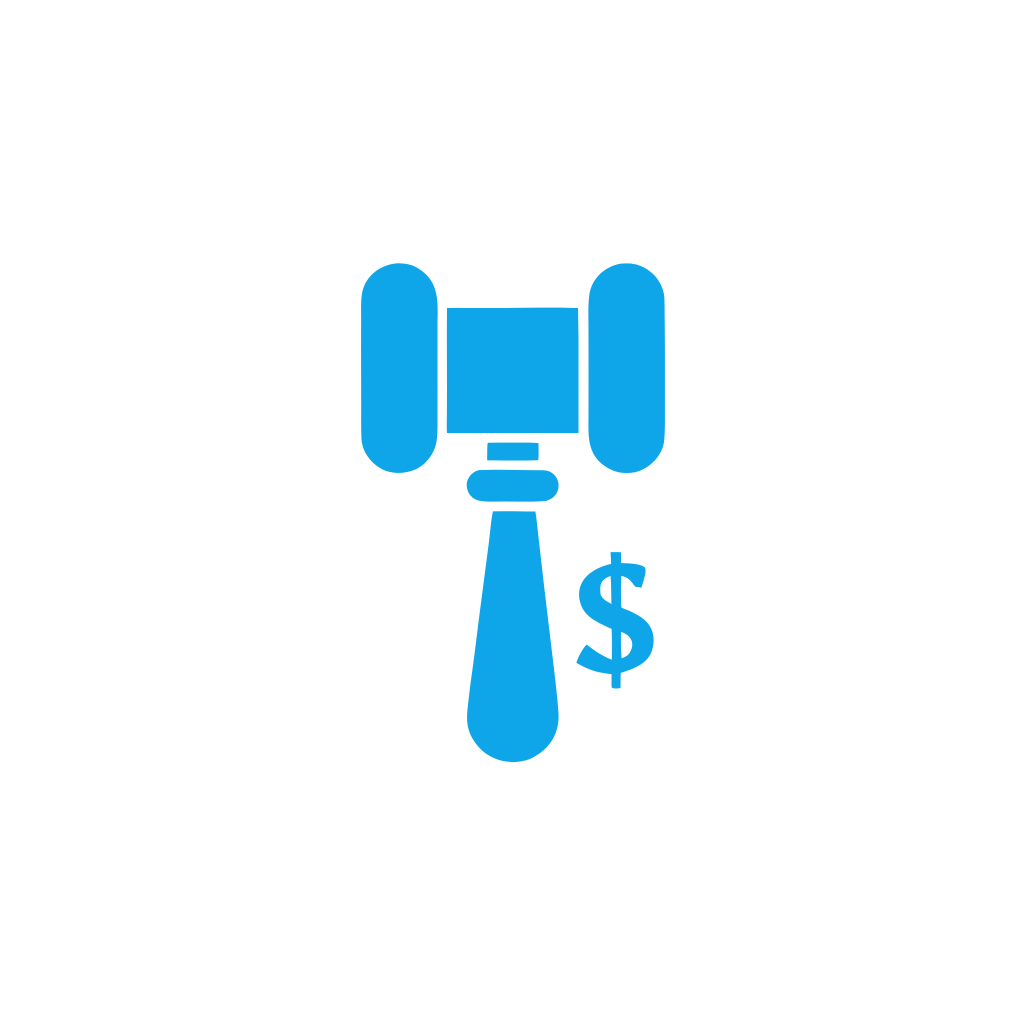
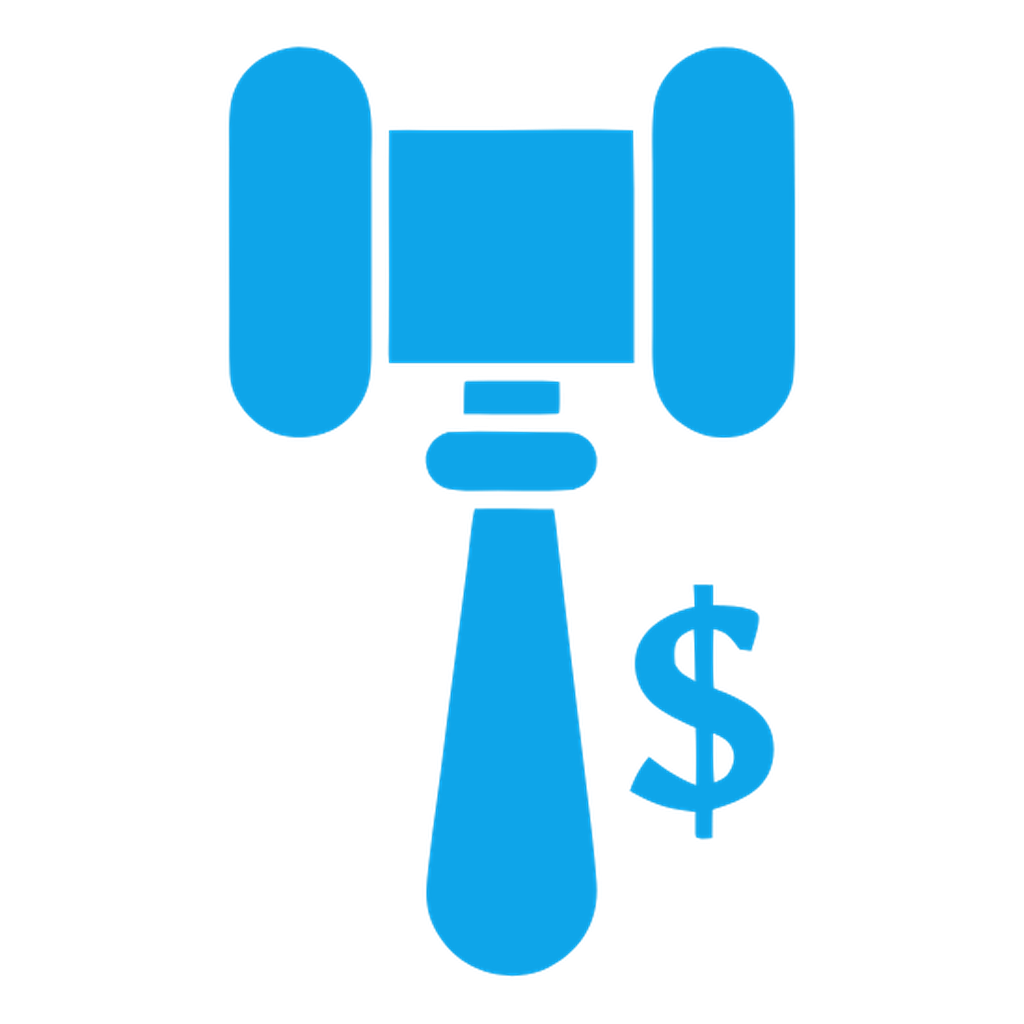
feat: add 4th PT quote card to WHAT PTs ARE SAYING section
Add missing "thorough examination" quote, update grid to 4-col layout,
and add postbuild script to auto-copy out/ to static/landing/.

Changed region(s): [[0.2188, 0.0312, 0.7812, 0.9688]]

diff --git a/landingpage_source/app/page.tsx b/landingpage_source/app/page.tsx
@@ -84,6 +84,11 @@ const proof = {
       attribution: 'Outpatient PT · r/physicaltherapy',
     },
     {
+      initials: 'PT',
+      quote: 'A thorough examination and history is probably the most important thing we do. Unfortunately it takes time, and that is what seems to be constantly being taken away.',
+      attribution: 'Outpatient PT · r/physicaltherapy',
+    },
+    {
       initials: 'DPT',
       quote: "I'd rather get over-communicated to than find out three sessions later that something important was missed.",
       attribution: 'DPT · r/physicaltherapy',
@@ -325,7 +330,7 @@ export default function LandingPage() {
       {proof.label}
     </p>
 
-    <div className="grid grid-cols-1 gap-6 md:grid-cols-3">
+    <div className="grid grid-cols-1 gap-6 md:grid-cols-2 lg:grid-cols-4">
       {proof.quotes.map((q, i) => (
         <div
           key={i}

diff --git a/landingpage_source/components/landing/seo-page.tsx b/landingpage_source/components/landing/seo-page.tsx
@@ -88,6 +88,11 @@ const proof = {
       attribution: 'Outpatient PT · r/physicaltherapy',
     },
     {
+      initials: 'PT',
+      quote: 'A thorough examination and history is probably the most important thing we do. Unfortunately it takes time, and that is what seems to be constantly being taken away.',
+      attribution: 'Outpatient PT · r/physicaltherapy',
+    },
+    {
       initials: 'DPT',
       quote: "I'd rather get over-communicated to than find out three sessions later that something important was missed.",
       attribution: 'DPT · r/physicaltherapy',
@@ -518,7 +523,7 @@ export function SeoPage() {
     </div>
 
     {/* 리뷰 카드 그리드 (blockquote + cite 구조 유지) */}
-    <div className="grid grid-cols-1 gap-6 md:grid-cols-3">
+    <div className="grid grid-cols-1 gap-6 md:grid-cols-2 lg:grid-cols-4">
       {proof.quotes.map((q, i) => (
         <blockquote
           key={i}